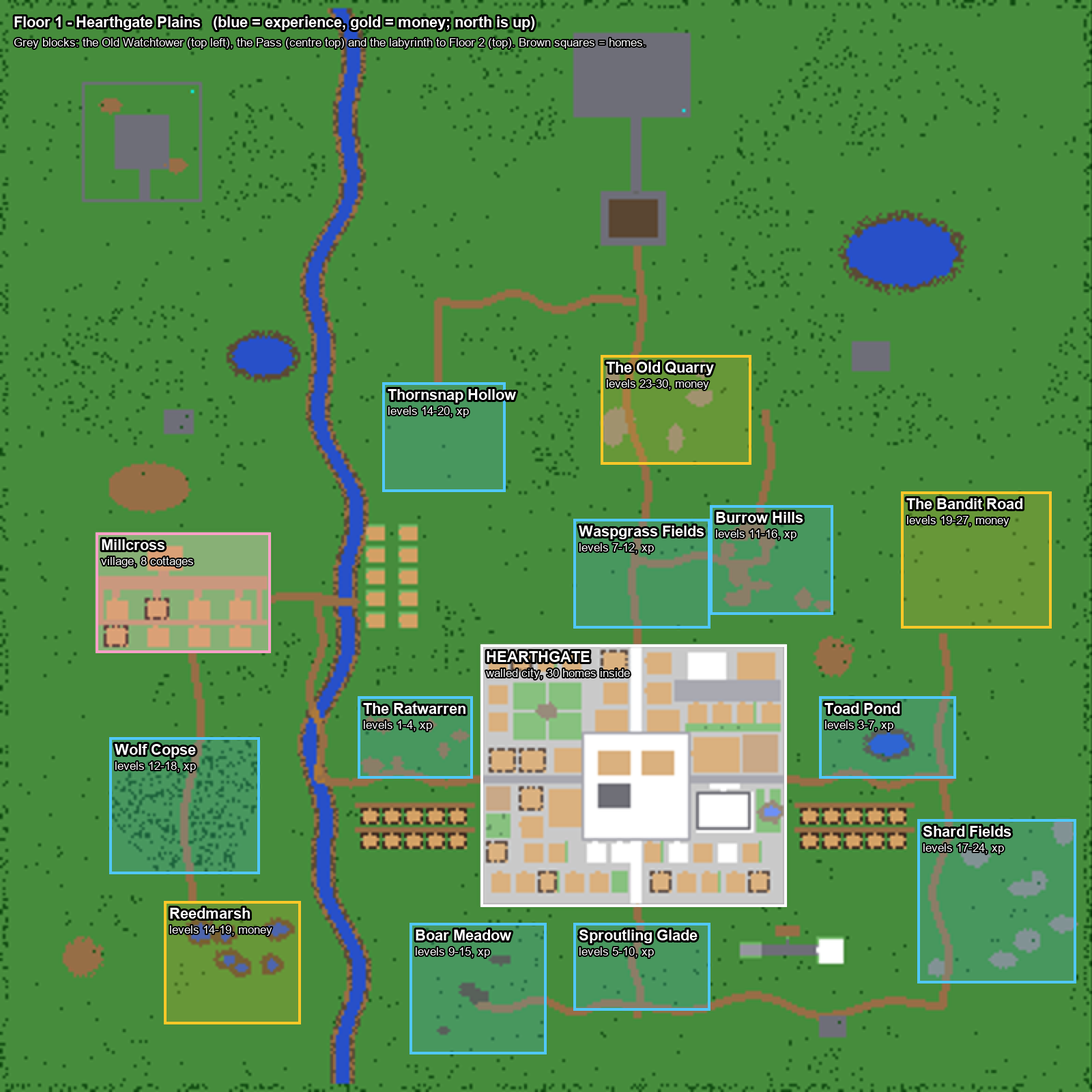
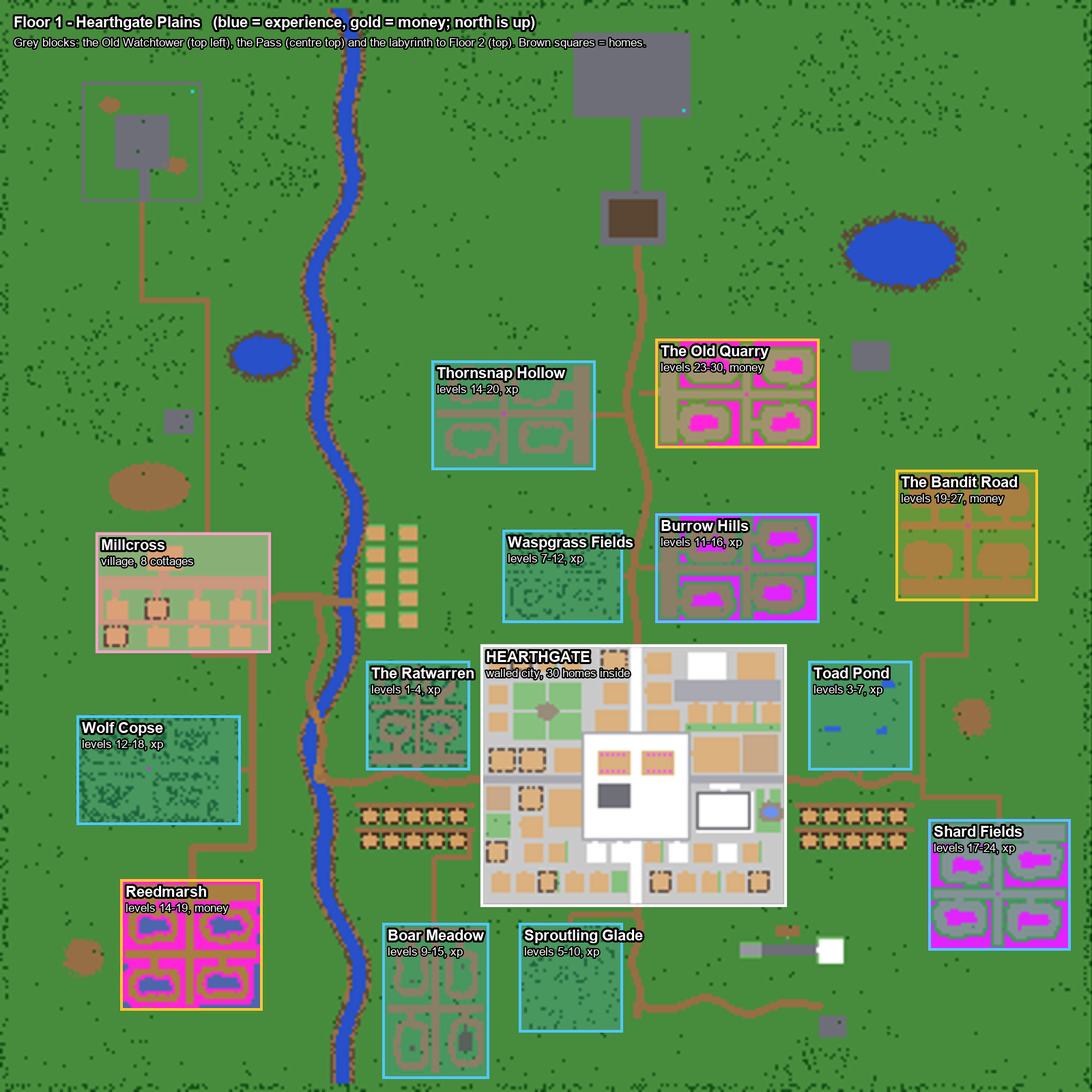
Finish the Floor 1 wilds rebuild: regenerate documents and pictures, weekly report and playtest list (wilds plan W11)

diff --git a/WEEKLY_REPORT.md b/WEEKLY_REPORT.md
@@ -1,133 +1,33 @@
-# Update, 2026-11-12: your direction list
+# Update, 2026-11-13: Floor 1 outside the walls is rebuilt
 
 ## What's new
-- **Hearthgate is bigger and planned block by block** (112×96 tiles; it was 80×72). Nothing is wasted:
-  - ten shops along the north wall: the five old ones plus a Fletcher (arrows), Alchemist (potions), Runewright (blank runes, wands, temple scrolls), Tailor and Post Office;
-  - the Market Square, with free stalls for player trading;
-  - a Trade Hall with the market broker and market lockers;
-  - an inn with rooms upstairs, a Training Yard (the offline training statues moved here), and a Carriage Station (Coachman Ferro drives to Millcross and back for 20 gold);
-  - 22 houses, up from 14.
-- **Spire Manor:** four floors at the end of the avenue:
-  - a grand hall with display counters and an indoor fountain;
-  - a trophy gallery;
-  - private quarters;
-  - a rooftop garden with a telescope.
-  Only the shop can hand it out. `!buyhouse` refuses it. Price and resale are in Q26.
-- **Research:** `docs/RESEARCH_TOP_SERVERS_2026-11b.md` covers who is biggest now and what they all share: minigames, travel, PvP, gear, houses and premium.
-- **I played a brand-new character in your client** and fixed what I found:
-  - Guide Pell's quest offer never appeared: a client bug hides any line with keywords inside brackets.
-  - The tutorial yard showed Open PvP.
-  - New characters fought barehanded.
-  - Three tutorial rats killed my level-1 character, and they could walk out of the pen.
-  - Two confusing login lines.
-  - Wrong advice on how to attack.
-  - No healing before town.
-- **Economy:** every Floor 1 monster now drops a trade material.
-  - **Crafters:** Fletcher, Alchemist, Runewright and Tailor turn materials into things no shop sells, such as sniper arrows, piercing bolts, cheap strong potions and hunter outfit addons. So hunters need each other's loot.
-  - **Burn rates:** `ECONOMY.md` lists them for every hunting ground and vocation. The build fails if anyone loses money where they're meant to hunt.
-- **Also new:** a boosted creature of the day (+50% experience, extra loot), and the temple teleport scroll. Boot test: 93 in-game checks, all passing.
+- **Every hunting ground is now a proper place.** All twelve grounds were rebuilt from `FLOOR1_WILDS_PLAN.md`:
+  - a wall of trees, rock, thorns or swamp, with **one gate** off a road;
+  - a **hub** inside the gate with a sign, a fire and a bench;
+  - **four hunting loops**: ring trails round a grove, a pond, a rock pile or a bandit camp, with monster groups at fixed spots. One loop is one player's hunt (or two sharing), and one lap is a cavebot route.
+  - Each has its own look: thicket mounds (Ratwarren), four ponds (Toad Pond), fern groves (Sproutling Glade), hedged flower beds (Waspgrass), oak groves (Boar Meadow), rock hills (Burrow Hills), dark firs (Wolf Copse), a swamp with pools (Reedmarsh), thorns (Thornsnap Hollow), boulder fields (Shard Fields), fenced bandit camps (Bandit Road), rubble (Old Quarry).
+- **Old Tusk's wallow:** Boar Meadow's south-east grove is hollow, a mud clearing reached through a one-tile gap. Old Tusk and the secret moved in there.
+- **Six caves for parties** under the harder grounds, each a ring of eight chambers with 32 monsters. The cavebot is refused in them (your Q32).
+- **Tibia-style respawn:** fewer monsters, back after 2 to 3.5 minutes, so you walk your loop instead of standing still. I also found that our engine really waits about twice the number in the spawn file, so the files now hold half of it.
+- **Your crowd system (Q31):** 5 or more players in a ground bring out extra groups, 8 or more bring out all of them, and 12 or more on a starter ground makes them come back three times as fast. `!hunt` tells you how busy your grounds are, for example "Boar Meadow: busy (6 players, extra monsters are out)".
+- **Slower levels (Q30):** 10x to level 8, 4x to 20, 3x to 50 (was 25x). Monster experience was retuned so every step of the ladder is better than the last. By the model Floor 1 now takes about 9.5 hours to level 35 by hand, so roughly 13 hours in real play. Bandits and the Quarry pay more coins.
+- **Roads and signs:** no road runs through a ground any more. There are new trails to every gate, the Copse Road, the Watch Road to the Old Watchtower (it had none), and signposts at ten junctions naming each ground and its levels.
+- **Under the hood:** the map build now refuses to finish if any gate can't be reached from the Hearthstone, a loop isn't a closed ring, a wall has a hole, or a monster group stands on a road or near a gate. Rock walls use Tibia's real mountain tiles, learned from Canary's hand-made map. Boot test: 105 in-game checks, all passing.
 
-## Playtest checklist (about 40 minutes)
-1. Walk Hearthgate from the north gate to the south gate. Visit the new shops, the Trade Hall, the inn upstairs, the Training Yard and the Carriage Station. Say `hi`, then `millcross`, to Coachman Ferro.
-2. As GM, go to Spire Manor (`/pos 1233, 1294, 7`) and climb all four floors to the rooftop.
-3. Make a new character, or ask me to reset Climber. Do Guide Pell's quest in the rat pen, then reach the Registrar. To attack, right-click a monster and choose Attack, or click its name in the Battle List (Ctrl+B).
-4. Say `craft` to Fletcher Tamsin, Alchemist Ivo, Runewright Mael and Tailor Quill.
-5. Buy a temple teleport scroll from the Runewright, walk out of town and use it.
-6. Read `ECONOMY.md` and tell me if any number feels wrong to you as a Tibia player.
+## Playtest checklist (about 50 minutes)
+Log in as Jay (your GM character). Type `/pos x, y, 7` in chat to jump, then press Escape before walking. Make a normal character too for step 1.
+1. **New character, signs only (15 min):** from the Arrival Yard, go to Hearthgate and find the Ratwarren, Toad Pond, Sproutling Glade, Waspgrass Fields and Boar Meadow using only the signposts. Note any junction where you didn't know which way to go.
+2. **Boar Meadow (10 min):** jump to `/pos 1159, 1341, 7` (the hub). Walk each of the four loops once. Do they feel like places? Is one lap a good length? Walk into Old Tusk's wallow in the south-east grove.
+3. **Toad Pond and Waspgrass (5 min):** `/pos 1314, 1276, 7` and `/pos 1224, 1211, 7`. Can you see where the trails go on grass?
+4. **Reedmarsh and Wolf Copse (5 min):** the marsh hub is `/pos 1070, 1326, 7` and Wolf Copse's hub is `/pos 1083, 1282, 7`.
+5. **A cave (10 min):** `/pos 1273, 1206, 7`, walk south onto the hole into the Molework, go round the ring of chambers and back up the stairs. If a friend is around, try a fight down there together.
+6. **`!hunt` (2 min):** say `!hunt` on a low-level character. You should get the advice and a busy line for your grounds.
+7. **Look and feel (3 min):** see Q33. Do the grounds look right to you, or too regular?
 
-## Open questions
-Q26 (Spire Manor's price and resale) and Q27 (forge from Floor 3) are new. My recommendations are assumed until you answer.
+## Open questions (my recommendation is assumed until you answer)
+- **Q33 (new):** do the walled grounds look the way you want? I recommend keeping the layout and letting the Cowork polish soften the outlines.
+- **Q26-Q29** (Spire Manor price, the forge, the account vault, the junk buyer) and **Q13-Q25** are still open. Nothing in this update depends on them.
 
 ## Art and map requests
-Nothing new from you. The manor and the new shops use base sprites.
-
----
-
-# Update, 2026-11-11 — Floor 1's map is finished (end of the map phase)
-
-## What's new
-- **I'm the mapper now, with real tools.** I can draw the map with the game's own art and check it in your client. I learned Tibia's building rules from Canary's hand-made map, so they now apply automatically to every map, on every floor: wall corners, doors, whole objects, roofs, stairs, ladders, ground edges, shorelines and caves. The rules are written into `CLAUDE.md`.
-- **Hearthgate and Millcross:** clean wall corners, matching doors, roofs on every building, and whole fountains and benches. The Guild Hall, the Millcross Inn and four corner houses on Lantern Row have an upstairs (the corner houses now rent for 2,800). The Hunters' Hall has a ladder up to a trophy loft.
-- **The land:** soft grass edges on every road and patch, shorelines on the river, the lake and the ponds, and whole boulders.
-- **Dungeons:** each special area is furnished, with lamps and torches on the walls and nothing that blocks a spawn or an entrance:
-  - the Pass;
-  - the labyrinth (a different floor on each level);
-  - the Axe-Lord's throne hall;
-  - the Old Watchtower and its natural cave;
-  - the Underkeep;
-  - the Arena;
-  - the Siege keep.
-- **Tests:** 87 in-game checks pass. New ones walk a character up real stairs and check that every landing and entrance stays walkable.
-
-## Playtest checklist (about 30 minutes)
-1. Walk around Hearthgate. Look at the corners, the doors and the roofs (they vanish when you go inside), and the plaza fountain and benches.
-2. In the Guild Hall, walk up the stairs at the east end and back down. In the Hunters' Hall, right-click the ladder's own tile and choose Use to climb, then walk onto the trapdoor to come back down.
-3. Visit a corner house on Lantern Row and go upstairs.
-4. Walk along the river west of town and look at the shoreline and the bridge.
-5. As GM, jump to the special areas: `/pos 1230, 1080, 7` (the Pass), `/pos 1229, 1030, 4` (the Axe-Lord's hall), `/pos 1052, 1060, 7` (the Old Watchtower), `/pos 1040, 1040, 8` (its cave), `/pos 1194, 1264, 8` (the Underkeep).
-6. Tell me anything that looks unfinished or odd. A screenshot is perfect.
-
-## Open questions
-No new ones. Q13–Q25 in `QUESTIONS.md` still have my recommendations assumed.
-
-## Art and map requests
-- **Map:** none needed from you. Floors 2–10 are still placeholders, and I'll build them with the same tools when we get there. Cowork's finishing polish can come later.
-- **Art:** nothing new (see `ART_REQUESTS.md`).
-
----
-
-# Update, 2026-11-10 (overnight session)
-
-## What's new since the last report
-- **Journal window (press J):** secrets (hints until found), fishing log, quests, hunting task, top climbers and the Memorial in one window. The text is tested; the window itself has never run in a real client, so it is the first thing to try.
-- **Portuguese and Spanish:** `!language pt` or `!language es`. Server messages and the Journal switch language. NPC talk, quest text and item names are still English (new task 6.3b).
-- **Public website pages** (rules, the tower, vocations, difficulty, PvP, events), built from the game's own data. Not online anywhere; open `website\public\index.html` in a browser to see them.
-- **Donation shop (closed):** `!shop` says "opens at launch". Behind it: 11 cosmetic placeholder items; a test fails the build if anything in it has combat stats. Prices are placeholders (your call in QUESTIONS.md, 7.3).
-- **Backups:** `Backup-Spirebound.bat` / `Restore-Spirebound.bat`, and Start now backs up automatically. Never tried on a real install yet.
-- **Fixed:** a hidden file that stopped fresh copies of the repo from building, and a load-order bug that broke the in-game tests on some machines. Boot test: 71 in-game checks pass.
-
-## Quick extra checks (about 10 minutes)
-1. In game press **J** and click each tab. Say `!language pt`, then press J again: tab names and a few messages should be Portuguese.
-2. Open `website\public\index.html` and click through the pages.
-3. Run `windows\Backup-Spirebound.bat`; a zip should appear in the `backups` folder.
-4. Say `!shop`: it should say the shop opens at launch.
-
-## Art/map requests
-Nothing new tonight. (Shop outfits and the mount use placeholder looks; real ones are needed before launch: see ART_REQUESTS.md.)
-
----
-
-# Weekly report — week of 2026-11-08 (Phases 1–5 built, plus the season reset; ready for your playtest)
-
-## What's new
-- **Floor 1 is playable from start to finish (on the test server in my cloud workspace; not yet run on your PC).** You create a character, pick a vocation and difficulty, level on Floor 1, kill the Gate Hound to open the labyrinth, climb its 3 levels, kill the Axe-Lord, and the whole server gets the "Floor 1 cleared" announcement while the stair to Floor 2 opens.
-- **Map:** a script-made Floor 1 (Hearthgate, Millcross, river, 3 starter fields, 6 hunting camps, the Old Watchtower apex spawn with a hidden cave, the Pass, the labyrinth, the boss room, the Floor 2 landing). Preview: `docs/previews/floor1_z7.png`. Placeholder art and walls.
-- **People and monsters:** 7 NPCs in Hearthgate (Registrar, priest, banker, merchant, quartermaster, weaponsmith, armorer), 13 monsters + 2 bosses, 116 spawned at once.
-- **Fighting:** 24 sword skills (combos) + 42 spells that unlock by level (utility and support included), party XP bonus, difficulty bonuses, Death Game rules.
-- **Client:** floor name at the top, sword-skill bar at the bottom (Shift+1..6), SAO cursors, Hardcore/Death Game label.
-- **Design updates from your answers:** seasons confirmed; cavebot built in at 45% XP with no marker; spells by level; no conjured ammo; research on top servers added (DESIGN.md §15).
-- **Phase 2, also built overnight:** PvP zones (shown on screen), weighted skulls and murderer penalties, newbie protection to 50, the 70% level-range rule, the outnumbered shield, guild Sanctuary, the bounty board (Bounty Warden Cass), consent guild wars (Guildwarden Sela), 12 Floor 1 secrets + Vesper the Info Broker, fishing, the Underkeep's first wing, 3 story quests with quest-log steps + the Floor 1 perk, the cavebot rules (45% XP, reported by the client's built-in bot), autoloot with rare-drop alerts, daily hunting tasks (Taskmaster Ren), catch-up rules for new players.
-- **Phase 3 (houses):** `!buyhouse` with a one-hour head start for the players who cleared a new floor; House Portal (3 changes ever), Summoning Circle for private boss rematches with Boss Sigils, Fortune Hall gambling (gold only, bank to bank), Open House, guild bank, recruiting board, World/Mundo/Trade/Help/LFG chat.
-- **Phases 4–5 (all 10 launch floors, placeholder maps):** every floor has a town with 8 NPCs and 6 houses, camps, a lake, an apex spawn, the Pass and its field boss, a 3-level maze and the floor boss. Azhrakkar waits on Floor 10. 27 story quests, 108 secrets, 63 fish, 18 perks, 48 sword skills + 3 Twin Fang skills, 56 spells (Lost Arts after the Floor 5 and Floor 8 story quests), the Twin Fang trial on Floor 8, Underkeep Wings 2–6, world events, weekend bonuses, the Saturday Fishing Derby, offline training statues. 1,115 monsters and 76 NPCs in the world. Previews: `docs/previews/floor2_z7.png` … `floor10_z7.png`.
-- **Season reset (Phase 8):** `/season end <number>` archives everyone to the Hall of Seasons, keeps account titles, wipes the rest. Don't run it on the real server until we decide a season is over.
-- Every change passes the automatic boot test (server online, 0 errors, now 54 in-game checks).
-
-## Playtest checklist (about 45 minutes)
-1. **Install / update (10 min):** double-click `windows\Install-Spirebound.bat`, wait for **Done!**. Then `Start-Spirebound.bat`. Log in: `jay` / `spirebound`.
-2. **New character (10 min):** pick **Climber**. In the temple say `hi` to **Registrar Maelis** → pick a vocation → pick a difficulty (try Normal). Check the floor name at the top of the screen and the skill bar at the bottom.
-3. **Hunt (10 min):** leave town by any gate. Kill rats/toads in the fields. Try a sword skill with Shift+1 (or type its name). Reach level 8 and check you get "New spell" messages. Visit the shops (say `hi`, then `trade`).
-4. **Boss run as a GM (10 min):** log in as **Jay** (gamemaster). Go north up the road to the Pass (walled arena) and kill the **Gate Hound**: the boulders north of the arena should vanish with an announcement. Go through the maze (blue portals take you up), kill the **Axe-Lord**, watch for the gold "Floor 1 has been cleared" message, and step on the portal behind him to reach Floor 2's landing. (Shortcut if a fight is too hard: say `/floor field 1` or `/floor clear 1`; `/floor reset 1` puts it back.)
-5. **Higher floors as a GM (optional, 10 min):** as Jay, say `/floor clear 1` … `/floor clear 9`, then walk the stairs from each boss room to see Floors 2–10. Try `!buyhouse` facing a house door in Hearthgate, then `!openhouse`.
-6. **Phase 2 extras, if you have time (optional):** say `hi` to Vesper, Bounty Warden Cass, Guildwarden Sela and Taskmaster Ren near the Monument; fish in the river (buy a rod and worms from Merchant Wenna, use the rod on water, use it again when "Something is biting!"); step on the drain grate in the south-west corner of town.
-7. **Notes (5 min):** in `PLAYTEST.md` write what felt good, what felt bad, and any error text. Short is fine.
-
-## Open questions (my recommendation is in use until you answer; details in QUESTIONS.md)
-- **Q1 (please):** give Claude GitHub access to `spirebound-repo` or push from GitHub Desktop. All of tonight's work (about 25 commits) is only on your PC.
-- **Q11:** keep the 10-minute cavebot linger? (recommend yes)
-- **Q12:** features from the top-server research (recommend keep all; hunting tasks come back; no character bazaar).
-- Q2 stray Dojo-game branch · Q5 FYI · Q6 Twin Fang 3/season · Q7 newer Tibia systems off · Q8 difficulty bonuses · Q9 PvP protection numbers.
-
-## Art and map requests
-- **Art batch 1** (`ART_REQUESTS.md`): 4 vocation outfits, 13 Floor 1 monsters, Gate Hound, Axe-Lord (two forms), NPCs. **Batch 2**: cursors, floor badge, skill frames. Prompts ready for Grok.
-- **Art batches 3–4**: Floors 2–10 monsters and bosses, Twin Fang, house items.
-- **Maps** (`MAP_REQUESTS.md`): real Floor 1 (M1), Underkeep Wing 1 (M2), M3–M4 for the higher floors. The generated placeholder works in the meantime.
+- No new sprites were needed: everything uses existing Tibia pieces.
+- `MAP_REQUESTS.md` M1 (the real Floor 1) is now mostly built by me; what's left is the finishing polish you planned for Cowork near the end.

diff --git a/QUESTIONS.md b/QUESTIONS.md
@@ -8,6 +8,11 @@ How this works: each question has Claude's recommendation. Claude assumes the re
 
 *Q13–Q25 come from the full review (`REVIEW.md` section B). Section numbers point into that file.*
 
+### Q33. Do the walled hunting grounds look the way you want? (2026-11-13)
+Every ground is now a walled place with ring trails (see the playtest list in WEEKLY_REPORT.md). Up close they read like a wood or a rocky field; from far away they look a little like a hedge maze, because the loops are regular.
+- Recommendation: keep the skeleton (it is what makes botting and sharing work) and let the end-of-project Cowork polish break up the outlines by hand.
+- Jay's answer:
+
 ### Q13. Calendar gate on floor bosses? [1.4]
 Nothing stops a big guild finishing all 10 floors in the first week or two, and then the season's story is over.
 - **Recommendation:** yes. Each floor boss room unseals on a date (Floor 2 no earlier than day 3, then one floor every 5–7 days). Every unlock becomes an event. Also drop the "25 floors per season" promise; say "10 floors, more if the season goes well".
@@ -89,21 +94,6 @@ Trader Osric buys nearly every monster drop at close to the standard Tibia NPC p
 - **Recommendation:** keep these prices for the friends test, then adjust from what testers earn per hour (ECONOMY.md shows the model).
 - Jay's answer:
 
-### Q30. Slow the early levels so Floor 1 lasts? (2026-11-12, from FLOOR1_WILDS_PLAN.md)
-With experience at 25 times normal, a new character passes level 35 (the end of Floor 1) after about 1 hour 15 minutes. Twelve hunting grounds go by in minutes each.
-- **Recommendation:** levels 1 to 8 at 10 times, 9 to 20 at 4 times, 21 to 50 at 3 times. Floor 1 then takes about 11 to 15 hours by hand, about a day and a half on the cavebot. Later stages get the same check when Floor 2 is planned.
-- Jay's answer (2026-11-12): "yes slow it down to what you recommend. it should last about 11-15 hours. this will give a great sense of FOMO on launch day and on season resets."
-
-### Q31. Crowd system: more monsters when a hunting ground is over-full? (2026-11-12)
-Each ground counts the players inside it. Past 5 players, extra monster groups switch on at set spots; past 8, all of them; they switch off five minutes after the crowd leaves. Starter grounds can reach four times their normal size (for launch day); harder grounds only one and a half times, so good spots stay worth competing for.
-- **Recommendation:** build it as described in FLOOR1_WILDS_PLAN.md Part 7.
-- Jay's answer (2026-11-12): "yes"
-
-### Q32. No cavebot inside the new caves? (2026-11-12)
-Six hunting grounds get a cave underneath with bigger groups, meant for a party of two to four at the keyboard. The loops above are for solo players and bots.
-- **Recommendation:** refuse the cavebot in caves, the same way boss rooms do.
-- Jay's answer (2026-11-12): "yes go with what you recommend."
-
 ### Q1. GitHub: Claude can't push to the repo from this session (needs you, 2 minutes)
 Claude can commit on your PC's copy but GitHub refuses the upload: the repo isn't in this session's allowed GitHub repos, and your PC's copy has no saved GitHub login for Claude to use. Work is safe on your PC, but not backed up to GitHub until this is fixed.
 - **Recommendation:** in the Claude app, add `Ingy372/spirebound-repo` to the GitHub repositories Claude can access. Until then, push from your PC whenever you like (GitHub Desktop: open the repo → "Push origin").
@@ -149,6 +139,21 @@ Canary includes Prey, Imbuements, the Forge, the Wheel of Destiny, Charms and th
 ---
 
 ## Answered
+
+### Q30. Slow the early levels so Floor 1 lasts? (2026-11-12, from FLOOR1_WILDS_PLAN.md)
+With experience at 25 times normal, a new character passes level 35 (the end of Floor 1) after about 1 hour 15 minutes. Twelve hunting grounds go by in minutes each.
+- **Recommendation:** levels 1 to 8 at 10 times, 9 to 20 at 4 times, 21 to 50 at 3 times. Floor 1 then takes about 11 to 15 hours by hand, about a day and a half on the cavebot. Later stages get the same check when Floor 2 is planned.
+- Jay's answer (2026-11-12): "yes slow it down to what you recommend. it should last about 11-15 hours. this will give a great sense of FOMO on launch day and on season resets."
+
+### Q31. Crowd system: more monsters when a hunting ground is over-full? (2026-11-12)
+Each ground counts the players inside it. Past 5 players, extra monster groups switch on at set spots; past 8, all of them; they switch off five minutes after the crowd leaves. Starter grounds can reach four times their normal size (for launch day); harder grounds only one and a half times, so good spots stay worth competing for.
+- **Recommendation:** build it as described in FLOOR1_WILDS_PLAN.md Part 7.
+- Jay's answer (2026-11-12): "yes"
+
+### Q32. No cavebot inside the new caves? (2026-11-12)
+Six hunting grounds get a cave underneath with bigger groups, meant for a party of two to four at the keyboard. The loops above are for solo players and bots.
+- **Recommendation:** refuse the cavebot in caves, the same way boss rooms do.
+- Jay's answer (2026-11-12): "yes go with what you recommend."
 
 ### Q10. Cavebot numbers
 - Jay's answer (2026-11-08): **XP 45% while botting** ("you want the players to have a reason to bot occasionally"); **no icon or indicator**; blocked from secrets/chests/boss rooms: yes; auto-targeting alone free: yes; third-party bots banned: yes. Loot stays 50% (my call). Linger: see Q11.

diff --git a/FLOOR1.md b/FLOOR1.md
@@ -9,7 +9,7 @@ Written for Jay. This is what Floor 1 is meant to be; the placeholder map in the
 ## The idea
 A new climber starts in a small walled yard, picks a path, and walks into **Hearthgate**: one compact walled city where every service is a short walk from the temple. Around it lies a ring of safe starter fields, then a spread of hunting grounds that get harder and richer the farther you walk, ending in the Old Quarry and the Old Watchtower. To the north, the Pass and the labyrinth lead to the Axe-Lord and Floor 2.
 
-**Small for 20, roomy for 500.** The city is 80 x 72 tiles and the walk from the temple to anything in town is about 30 steps. The land around it has about 1,000 monsters spread over twelve grounds at one monster per 30 tiles, with the same kind of monster in several grounds, so a crowd spreads out instead of queueing for one spawn. At 20 players the grounds feel empty; at 500 the monsters still last.
+**Small for 20, roomy for 500.** The walk from the Hearthstone to anything in town is short. Since the wilds rebuild (2026-11-13, `FLOOR1_WILDS_PLAN.md`) every hunting ground is a walled place with one gate, a hub and four hunting loops: about 1,000 monsters at rest across the twelve grounds, 66 in the Old Watchtower and 192 in six party caves. When a ground fills up, the crowd system adds extra groups (up to about 1,500 on a packed floor).
 
 ## Hearthgate (the walled city)
 Gates face north, south, west and east. Streets run straight to the plaza.
@@ -58,6 +58,14 @@ Twelve grounds plus the apex, in the order a climber meets them. Details in `BES
 | 28-40 | The Old Watchtower (apex) | experience and money |
 
 The four starter grounds and the roads around the city are *Guarded* (players cannot attack each other). Everything beyond is *Open*. The Old Watchtower is *Contested*.
+
+### How every hunting ground is built (2026-11-13)
+- **One gate** off a road or trail, 3 tiles wide, with a signpost at the junction. Inside: a **hub** with a sign naming the ground and its loops, a fire and a bench. No monsters within 8 tiles of the gate.
+- **Four loops** (north-west, north-east, south-west, south-east): a ring trail 2 tiles wide round a solid grove, pond, rock pile or camp. Monster groups stand at fixed spots on the ring (4 groups of 3 on a starter loop, 6 on the others). One loop feeds one player hunting flat out, or two sharing; a cavebot route is one lap.
+- **Return times** follow Tibia's rule: few monsters, back after 2 to 3.5 minutes (elites 15). Standing still does not pay: walk the loop.
+- **Caves** for parties of 2 to 4 under Burrow Hills (the Molework), Wolf Copse (the Alpha's Den), Thornsnap Hollow (the Rootcellar), Shard Fields (Shard Grotto), the Bandit Road (Smugglers' Cellar) and the Old Quarry (the Lower Works). The way down is a hole where the cross trails meet. No cavebot below.
+- **Crowd system:** 5+ players in a ground switch on half its extra groups, 8+ all of them, 12+ on a starter ground makes them return three times as fast. `!hunt` says how busy your grounds are.
+- **Levelling:** levels 1-8 at 10x, 9-20 at 4x, 21-50 at 3x; Floor 1 takes about 11 to 15 hours of real play (ECONOMY.md has the ladder).
 
 ## Quests on Floor 1
 **Story quests** (finish all six to earn the Floor 1 perk at the Registrar):

diff --git a/PROGRESS.md b/PROGRESS.md
@@ -379,3 +379,7 @@ Read the engine's spawn code for our pinned version (Canary 3.6.1, `spawn_monste
 - Jay's idea, Q31 "yes": every 30 seconds each hunting ground counts the players inside (staff don't count, cavebot users do). Fewer than 5: Quiet. 5 to 7: Busy, half its extra groups come out. 8 or more: Packed, all of them. 12 or more on a starter ground: Rush, and extra groups come back three times as fast. A ground steps up at once and only steps down after 5 minutes below the line; then the extra monsters left alive stay, but don't come back. No extra group ever appears within 7 tiles of a player. A starter ground goes from 48 monsters to 96; a harder one from 72 to 108.
 - `!hunt` now adds a line such as "Boar Meadow: busy (6 players, extra monsters are out)" for the grounds it recommends. Q32 "yes": a player with the cavebot on is sent back up the stairs from any of the six caves.
 - Five new in-game tests drive the real crowd update (it really puts the monsters on the map): 4 players quiet, 5 busy with half the spots, 8 all spots, 12 a Rush only on a Guarded ground, nothing beside a player, and no refilling five minutes after everyone leaves. Boot test 105 in-game tests, 0 errors.
+
+### 2026-11-13: Wilds rebuild finished: documents, pictures and the report (wilds plan W11)
+- Regenerated BESTIARY.md, ECONOMY.md, the `!hunt` guide, `docs/FLOOR1_PLAN.png` and `docs/FLOOR1_WILDS_PLAN.png` (plan check: problems 0). FLOOR1.md now explains how every ground is built. Monster counts match the plan: 48 per starter ground, 72 per harder ground, 32 per cave, 66 in the Old Watchtower (in-game tests count them).
+- WEEKLY_REPORT.md has a 50-minute playtest list for the new wilds. New question Q33 (does the look suit you?); Q30-Q32 moved to Answered.

diff --git a/ROADMAP.md b/ROADMAP.md
@@ -225,5 +225,5 @@ Jay: "monster spawn areas are currently messy and need to have more of a dedicat
 - [x] **W8 The six caves.**
 - [x] **W9 Experience stages and the ladder** (Q30: Jay said yes, Floor 1 should last 11-15 hours).
 - [x] **W10 The crowd system and the `!hunt` line** (Q31: yes; cavebot refused in caves, Q32: yes).
-- [ ] **W11 Regenerate documents and pictures; playtest list for Jay.**
+- [x] **W11 Regenerate documents and pictures; playtest list for Jay.**
 - [ ] **W12 Walk every rebuilt ground in the real client** (cut from W3-W8 on 2026-11-13: the client could not be driven this session). Done when: each ground's gate, hub signs, four loops and cave walked by Jay or by Claude in the client, and one party-sized fight in a cave, notes fixed. (Done so far: Boar Meadow, Toad Pond's hub, the Molework down and up.)
